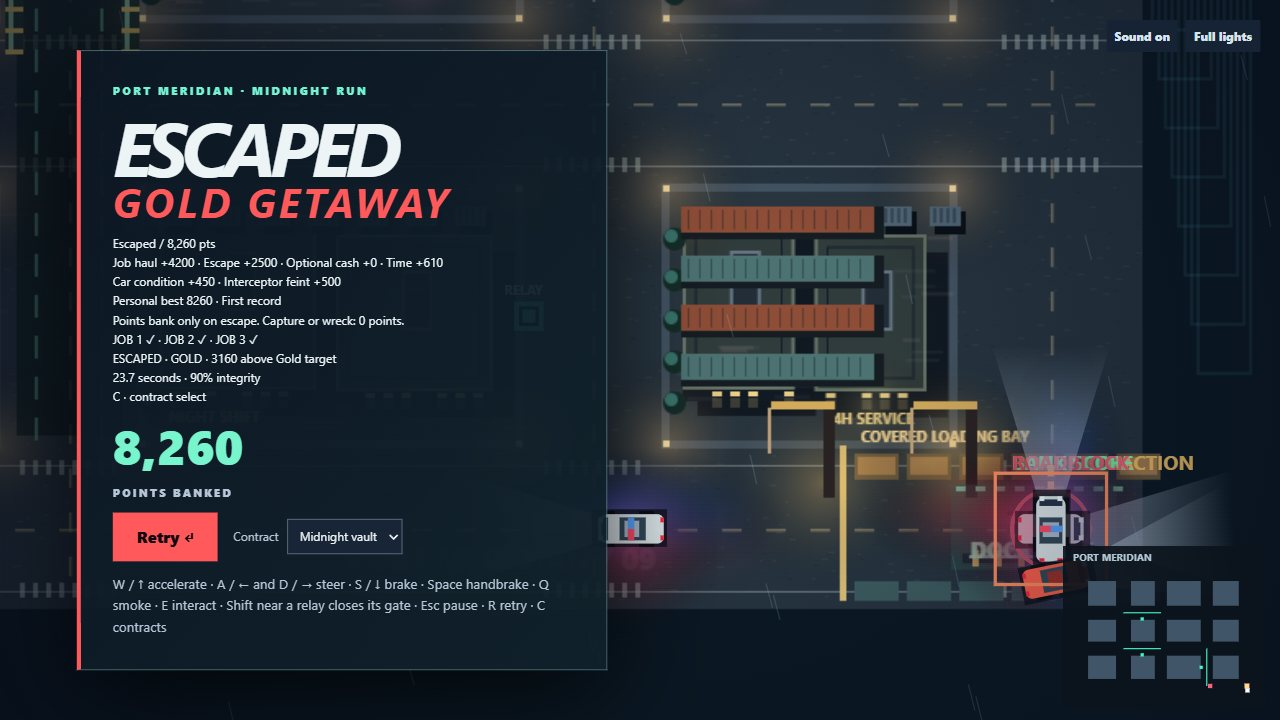
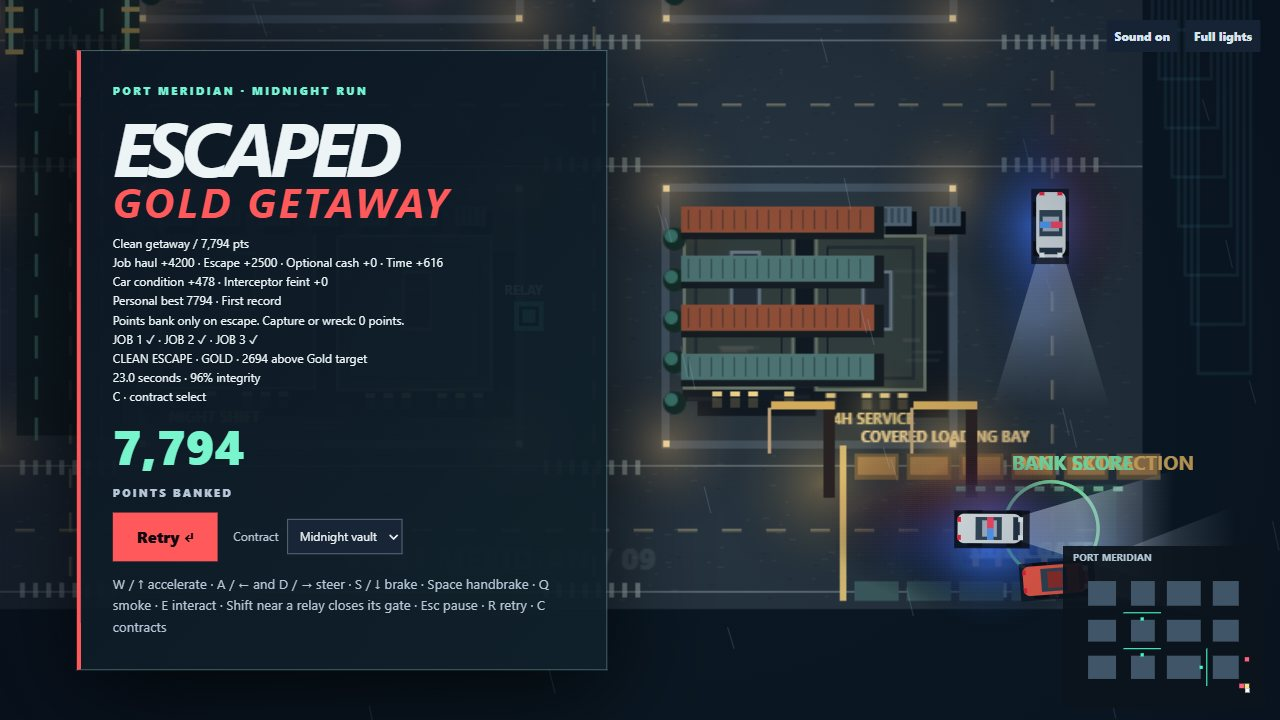
Stabilize police routes, cornering and last-sighting searches

diff --git a/game/src/pursuit.js b/game/src/pursuit.js
@@ -55,10 +55,14 @@ const Pursuit = ((city) => {
   }
 
   function dispatch(unit, target, road = null) {
+    // Keep a useful order instead of rebuilding it at every radio update.
+    const blocked=unit.path.some(q=>q.edge[0]!==q.edge[1]&&!city.edgeOpen(...q.edge,road));
+    if(!blocked && unit.path.length && unit.destination && city.distance(unit.destination,target)<45)return;
+    unit.destination={...target};
     const [a, b] = unit.edge;
     if (city.edgeOpen(a,b,road) && target.edge.includes(a) && target.edge.includes(b)) {
-      unit.path = [target];
-      return;
+      const ahead=(target.x-unit.x)*Math.cos(unit.angle)+(target.y-unit.y)*Math.sin(unit.angle);
+      if(ahead>=-20 || (unit.speed||0)<35){unit.path=[target];return;}
     }
     let bestLength = Infinity;
     const starts=road&&!city.edgeOpen(a,b,road)
@@ -71,7 +75,10 @@ const Pursuit = ((city) => {
       const path = nodes.map((node, i) => ({
         ...city.nodes[node], edge: i ? [nodes[i - 1], node] : city.edgeOpen(a,b,road) ? unit.edge : [node,node],
       }));
-      let length = 0;
+      const first=path.find(q=>city.distance(unit,q)>5)||target;
+      const heading=Math.atan2(first.y-unit.y,first.x-unit.x);
+      const turn=Math.abs(Math.atan2(Math.sin(heading-unit.angle),Math.cos(heading-unit.angle)));
+      let length = (unit.speed||0)>45 && turn>2 ? 480 : turn*30;
       for (const point of [...path, target]) {
         length += city.distance(previous, point);
         previous = point;
@@ -83,31 +90,32 @@ const Pursuit = ((city) => {
     }
   }
 
-  function advance(unit, speed, dt) {
-    let remaining = speed * dt;
-    while (remaining > 0 && unit.path.length) {
-      const target = unit.path[0];
-      const distance = city.distance(target, unit);
-      if (distance > .01) {
-        const heading = Math.atan2(target.y-unit.y,target.x-unit.x);
-        const error = Math.atan2(Math.sin(heading-unit.angle),Math.cos(heading-unit.angle));
-        if (Math.abs(error) > .15) {
-          unit.angle += Math.sign(error)*Math.min(Math.abs(error),3.2*dt);
-          return;
-        }
-        unit.angle = heading;
+  function advance(unit, cruise, dt, road=null) {
+    while(unit.path.length && city.distance(unit,unit.path[0])<4){
+      unit.edge=unit.path.shift().edge;
+    }
+    if(!unit.path.length){unit.speed=0;return;}
+    let target=unit.path[0],distance=city.distance(unit,target);
+    // Round a corner only where the actual vehicle footprint has room.
+    if(distance<20 && unit.path.length>1){
+      const next=unit.path[1],dx=next.x-unit.x,dy=next.y-unit.y,d=Math.hypot(dx,dy);
+      if(Array.from({length:Math.ceil(d/8)},(_,i)=>(i+1)/Math.ceil(d/8)).every(t=>!city.wall(unit.x+dx*t,unit.y+dy*t,11,road))){
+        unit.edge=target.edge;unit.path.shift();target=next;distance=d;
       }
-      unit.edge = target.edge;
-      if (distance <= remaining) {
-        unit.x = target.x;
-        unit.y = target.y;
-        remaining -= distance;
-        unit.path.shift();
-      } else {
-        unit.x += Math.cos(unit.angle) * remaining;
-        unit.y += Math.sin(unit.angle) * remaining;
-        return;
-      }
+    }
+    const heading=Math.atan2(target.y-unit.y,target.x-unit.x);
+    const error=Math.atan2(Math.sin(heading-unit.angle),Math.cos(heading-unit.angle));
+    const bend=Math.abs(error);
+    const desired=Math.min(cruise,unit.path.length===1?Math.sqrt(2*420*distance):cruise)*(bend>1.1?.16:bend>.35?.48:1);
+    unit.speed=Math.max(0,(unit.speed||0)+Math.max(-480*dt,Math.min(210*dt,desired-(unit.speed||0))));
+    unit.angle+=Math.max(-2.9*dt,Math.min(2.9*dt,error));
+    const step=bend>1.5?0:Math.min(unit.speed*dt,distance);
+    const x=unit.x+Math.cos(heading)*step,y=unit.y+Math.sin(heading)*step;
+    if(!city.wall(x,y,11,road)){unit.x=x;unit.y=y;unit.edge=target.edge;}
+    else {
+      const rx=unit.x+Math.cos(heading)*Math.min(40*dt,distance),ry=unit.y+Math.sin(heading)*Math.min(40*dt,distance);
+      if(!city.wall(rx,ry,11,road)){unit.x=rx;unit.y=ry;}
+      unit.speed=0;unit.angle+=Math.max(-1.5*dt,Math.min(1.5*dt,error));
     }
   }
 
@@ -116,12 +124,19 @@ const Pursuit = ((city) => {
   }
 
   function searchTarget(p, offset) {
-    const last = p.sighting;
-    const center = city.nearest(last);
-    if (p.lost < 3.5) return city.inCover(last) ? junction(center) : roadPoint(last);
-    const forward = predict(last);
-    const options = [forward, ...city.edges[center].filter(n => n !== forward), center];
-    return junction(options[(Math.floor((p.lost - 3.5) / 2.8) + offset) % options.length]);
+    const unit=p.units[offset]||p.units[0],last=p.sighting;
+    const center=city.nearest(last),forward=predict(last);
+    const options=[center,forward,...city.edges[center].filter(n=>n!==forward)];
+    if(!unit.search || unit.search.x!==last.x || unit.search.y!==last.y){
+      unit.search={x:last.x,y:last.y,index:offset===0?0:offset,goal:null,wait:0};
+    }
+    const search=unit.search;
+    if(search.goal && city.distance(unit,search.goal)<28 && !unit.path.length){
+      if(!search.wait)search.wait=p.elapsed+.7;
+      if(p.elapsed>=search.wait){search.index++;search.goal=null;search.wait=0;}
+    }
+    if(!search.goal)search.goal=search.index===0?roadPoint(last):junction(options[search.index%options.length]);
+    return search.goal;
   }
 
   function tick(p, run, dt = 1 / 60) {
@@ -180,7 +195,7 @@ const Pursuit = ((city) => {
       p.refresh = 0;
     }
     if (p.sighting && p.refresh <= 0) {
-      p.refresh = .22;
+      p.refresh = .65;
       dispatch(tail, p.seen ? roadPoint(p.sighting, run.traffic) : searchTarget(p, 0), run.traffic);
       if (!p.intercept && p.seen) {
         const node = predict(p.sighting);
@@ -192,19 +207,18 @@ const Pursuit = ((city) => {
       } else if (!p.intercept && !p.seen) {
         dispatch(interceptor, searchTarget(p, 1), run.traffic);
       }
-      if(p.extra&&p.sighting)dispatch(p.extra,p.seen?roadPoint(p.sighting,run.traffic):searchTarget(p,2),run.traffic);
+      if(p.extra&&p.sighting)dispatch(p.extra,p.seen?junction(predict(p.sighting)):searchTarget(p,2),run.traffic);
     }
     const heatScale=1+Math.min(run.jobs?.heat||0,4)*.045;
-    advance(tail, (p.seen ? (p.bonusAlarm ? 185 : 220) * (p.pressure || 1) : 106)*heatScale, dt);
-    advance(interceptor, (p.intercept ? 255 : 157)*heatScale, dt);
-    if(p.extra)advance(p.extra,(p.seen?175:112)*heatScale,dt);
-    if (p.intercept && !p.block && city.distance(interceptor, city.nodes[p.intercept.node]) < .01 && !interceptor.path.length) {
+    advance(tail, (p.seen ? (p.bonusAlarm ? 235 : 220) * (p.pressure || 1) : 106)*heatScale, dt, run.traffic);
+    advance(interceptor, (p.intercept ? 255 : 157)*heatScale, dt, run.traffic);
+    if(p.extra)advance(p.extra,(p.seen?175:112)*heatScale,dt,run.traffic);
+    if (p.intercept && !p.block && city.distance(interceptor, city.nodes[p.intercept.node]) < 8 && !interceptor.path.length) {
       p.block = p.intercept;
       if(p.intercept.diverted&&!p.intercept.rewarded&&city.distance(car,city.nodes[p.intercept.node])>150){
         p.intercept.rewarded=true;p.feint=true;
       }
-      const from = city.nodes[p.block.from];
-      interceptor.angle = Math.atan2(from.y - interceptor.y, from.x - interceptor.x) + Math.PI / 2;
+      interceptor.speed=0;
     }
     p.tailRange = city.distance(tail, car);
     p.nearestRange = Math.min(...p.units.map(unit=>city.distance(unit,car)));

diff --git a/game/src/traffic.js b/game/src/traffic.js
@@ -30,7 +30,7 @@ const Traffic = ((city) => {
     return city.route(city.nearest(run.car), 19, road).length > 0;
   }
   function activate(state, run, pursuit) {
-    const range=58*(run.jobs?.modifiers.relayRange||1);
+    const range=90*(run.jobs?.modifiers.relayRange||1);
     const gate = gates.filter(g => city.distance(run.car, g.console) < range)
       .sort((a,b) => city.distance(run.car,a.console)-city.distance(run.car,b.console))[0];
     if (!gate) { state.message = 'Move beside a relay console to close a gate'; return false; }

diff --git a/docs/IMPROVEMENT_REPORT.md b/docs/IMPROVEMENT_REPORT.md
@@ -29,3 +29,14 @@ During development, a duplicate declaration and mixed text encodings caused a fa
 The local official check is not a game-quality grade. No new entry was submitted, and no new win rate exists. A competition win is unproven. The original grid-based city layout and driving simulation remain; this candidate expands tactical play, presentation and feedback rather than replacing the entire game. The top game's apparent breadth still exceeds this three-job mission. Private competitor gameplay and judge reasons remain unavailable.
 
 Final kit report and native transcript bundle are kept in the setup directory, outside the public repository. Server-only checks remain pending until a separately authorized submission.
+## Police driving revision
+
+The police now retain useful routes instead of replacing them every 0.22 seconds. Radio replanning runs at 0.65 seconds and ignores small destination changes while a route remains useful. Closed roads still force immediate replanning. Route selection penalizes high-speed reversals.
+
+Cruisers accelerate and brake progressively, slow for turns and stopping points, and rotate at a bounded rate. They round a corner only after checking the complete shortcut against the vehicle footprint. Roadblock arrival no longer snaps the car sideways. This remains an arcade road-following model, not full tyre physics.
+
+Searches keep their destination until arrival, pause briefly to inspect it and then move to the next connected street. Hidden player movement never changes the last reported position. The tail pursues the sighting, the interceptor keeps a junction commitment, and reinforcement aims ahead rather than duplicating the tail's target. The optional cash alarm no longer accidentally reduces pursuit speed.
+
+Validation: 27 simulation tests pass, including progressive acceleration, bounded rotation, no position jumps, street containment, persistent search orders, line of sight, reacquisition, capture, road closures and smoke. Both offline Chrome sizes passed the full escape sequence. Optional-alarm capture passed at 20.1 seconds. Tests now allow physical acceleration time for interceptor arrival and systematic search time for reacquisition; success conditions remain mandatory. A corner-clipping defect and overly aggressive initial acceleration were found during testing and corrected.
+
+Final regression count: 28 passing tests. Relay activation and its visible prompt now share the same range; the upgrade test checks the new base boundary and its extended range. Normal-speed tests accept and explicitly report a safety refusal only when a vehicle occupies the gate lane; deterministic runs still require a successful closure. The simulation remains road-guided rather than a full vehicle dynamics model.
